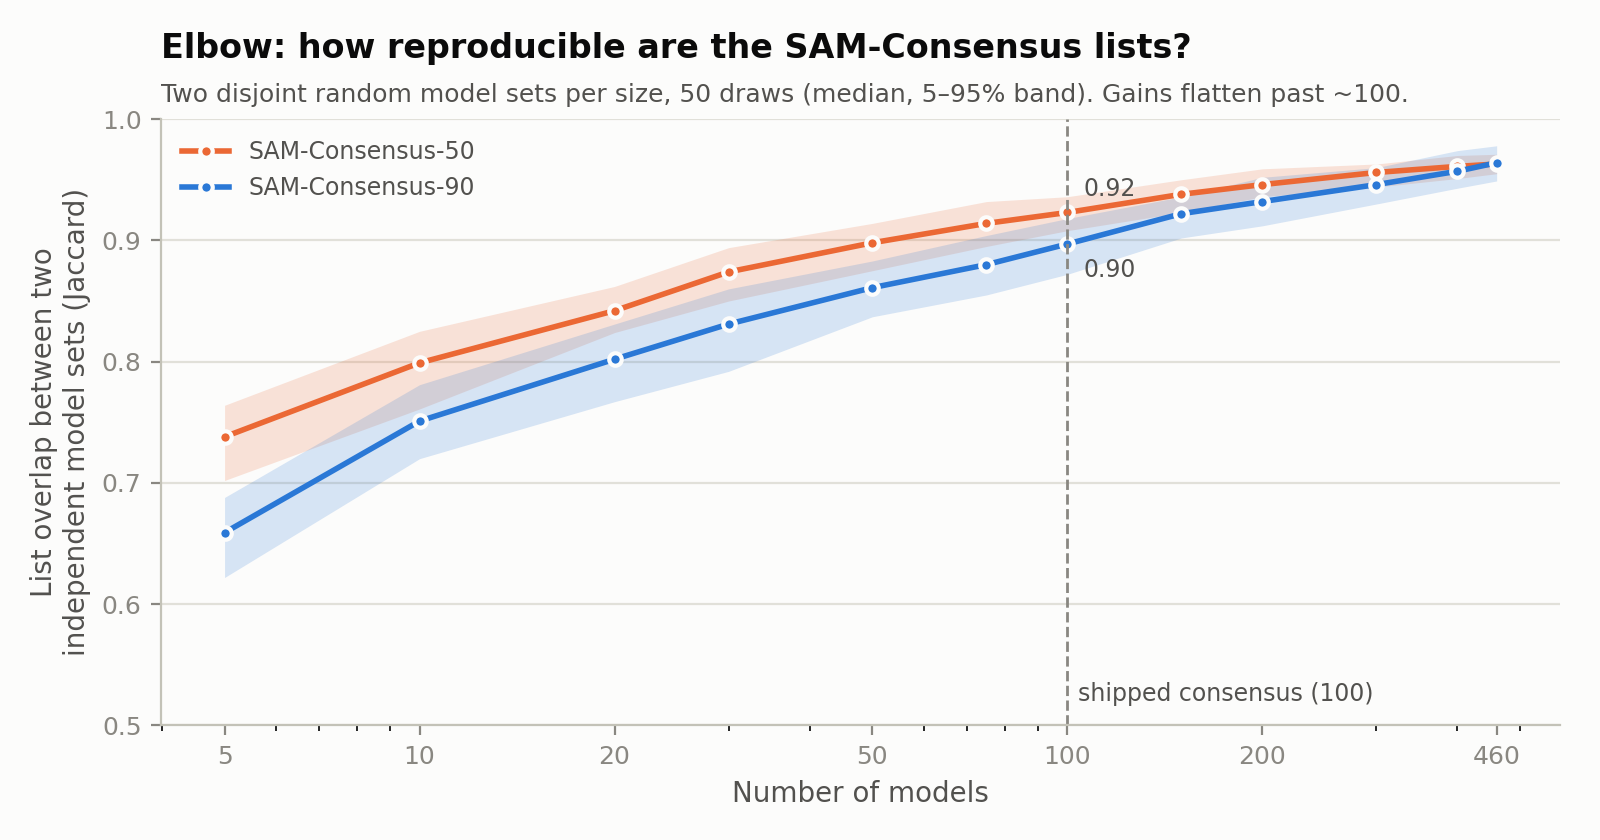
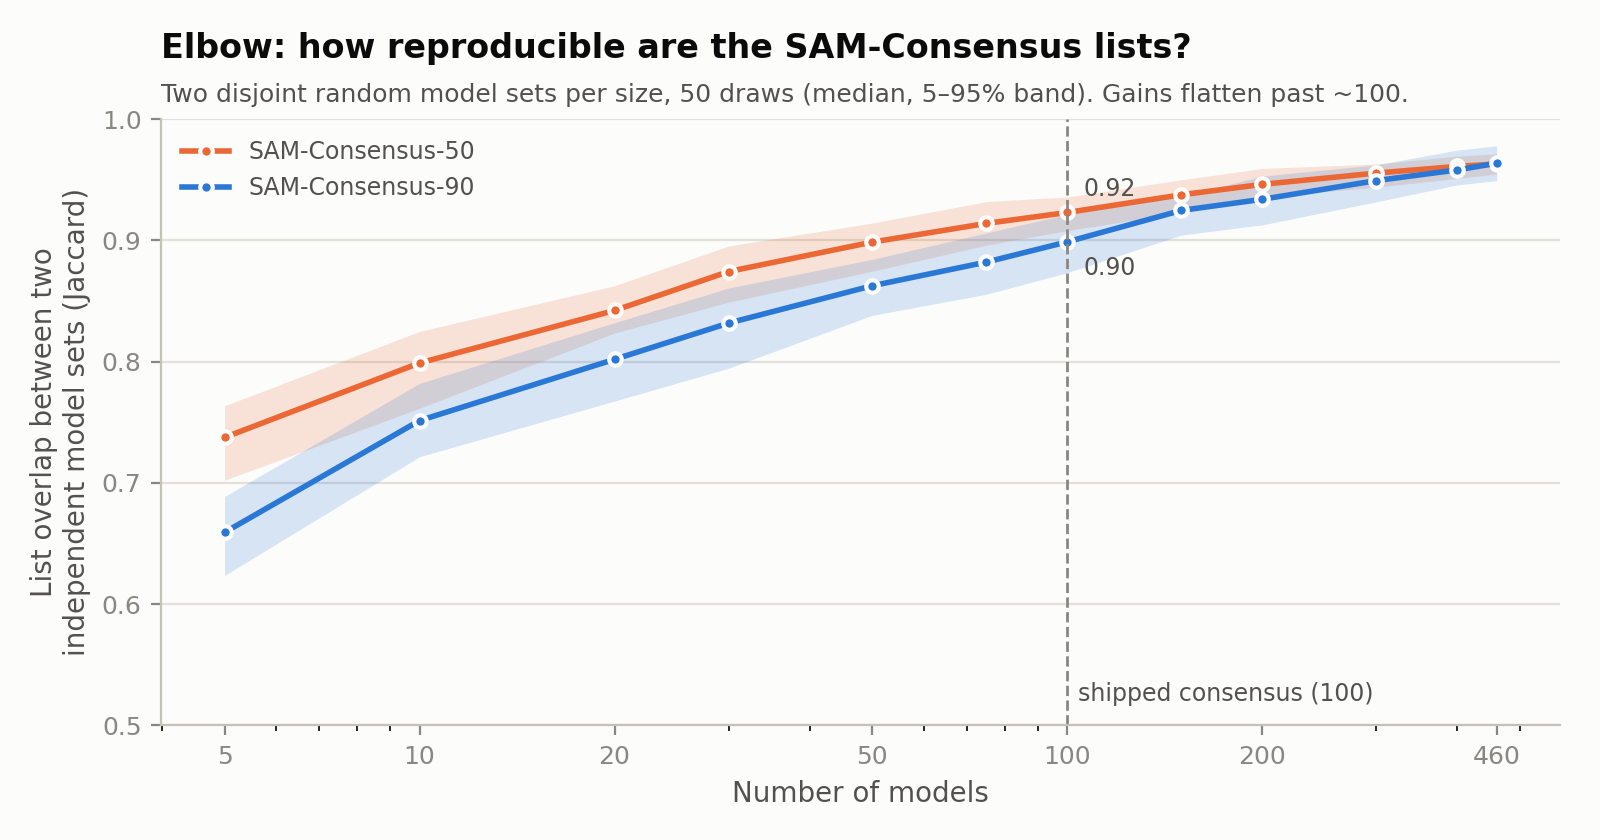
Add SAM-Consensus: agreement of 100 ShortStop models (v1.1.0; 7152 GENCODE smORFs)
Predict and demo modes now also score every smORF with 100 independently
trained ShortStop models (the standard model plus the 99 next-highest-AUC
replicates) and report how many vote SAM, i.e. P(intracellular) + P(secreted)
> 0.5.

predictions/consensus/shortstop_consensus.csv adds, per smORF:
- sam: the standard model's call (unchanged from v1.0)
- sam_consensus_percentage: share of the 100 models voting SAM
- sam_consensus_50 / _90 / _100: > 50%, >= 90% and all models vote SAM
- spread of P(SAM) across models and the majority SAM class

predictions/consensus/consensus_summary.txt reports the counts and model
agreement for the run. Standard model outputs are unchanged.

The models (~36 MB) are a release asset, downloaded on first use, checked
against a pinned sha256 and cached. --consensus_dir points at a local copy;
--no_consensus skips the step.

Also adds docs/consensus_validation.md with figures, and the scripts that
rebuild the model bundle and the validation numbers.

Changed region(s): [[0.5, 0.1857, 0.9062, 0.3714], [0.4375, 0.3714, 0.4688, 0.4024]]

diff --git a/scripts/consensus_validation/consensus_figures.py b/scripts/consensus_validation/consensus_figures.py
@@ -3,7 +3,8 @@
 1. consensus_auc_{theme}.png     - XGBoost macro AUC of the replicate training runs, consensus models highlighted
 2. consensus_elbow_{theme}.png   - SAM-Consensus list overlap between two independent model sets vs size
 3. consensus_levels_{theme}.png  - SAM-Consensus percentage per smORF, with the 50 / 90 / 100 levels
-agreement_stats.csv, elbow.csv and random_comparison.csv hold the numbers behind docs/consensus_validation.md.
+label_stats.csv, agreement_stats.csv, elbow.csv and random_comparison.csv hold the numbers behind
+docs/consensus_validation.md. Only GENCODE smORF IDs (starting with lowercase "c") are counted.
 Each model votes SAM when P(intracellular) + P(secreted) > 0.5. SAM-Consensus-50: > 50% of models,
 -90: >= 90%, -100: all models.
 """
@@ -30,7 +31,9 @@ THEMES = {
 manifest = pd.read_csv(f"{HERE}/consensus_manifest.csv")
 excluded = pd.read_csv(f"{HERE}/excluded_models.csv")
 auc = pd.read_csv(f"{AGREE}/model_auc.csv")
-probs = np.load(f"{AGREE}/probs.npy")
+orf_ids = pd.read_csv(f"{AGREE}/orf_ids.csv")["orf_id"].str.strip('"')
+gencode = orf_ids.str.match(r"^c").to_numpy()  # GENCODE smORF IDs only
+probs = np.load(f"{AGREE}/probs.npy")[:, gencode]
 runs = pd.read_csv(f"{AGREE}/models.csv")["model"]
 vote_all = probs[:, :, 1:].sum(2) > SAM_PROB  # runs x smORFs
 pool_idx = np.flatnonzero(~runs.isin(excluded["model"]).to_numpy())
@@ -68,7 +71,7 @@ def elbow(sizes, reps=50, seed=0):
             p5, med, p95 = np.percentile(res[k], [5, 50, 95])
             row.update({f"sam_consensus_{k}_p5": p5, f"sam_consensus_{k}_median": med, f"sam_consensus_{k}_p95": p95})
         rows.append(row)
-    return pd.DataFrame(rows).round(3)
+    return pd.DataFrame(rows).round(4)  # 4 dp so the docs' 2-dp values are rounded once
 
 
 def random_comparison(reps=200, seed=0):
@@ -113,7 +116,42 @@ def agreement_stats():
     return pd.DataFrame({"metric": list(rows), "value": list(rows.values())}).round(4)
 
 
+def label_stats():
+    """Every count quoted in the docs: standard SAM (argmax of model_001) vs SAM-Consensus levels."""
+    std_probs = probs[ens_idx[manifest["is_standard"].to_numpy()][0]]
+    std_cls = std_probs.argmax(1)
+    std_sam = std_cls != 0
+    v = vote_all[ens_idx]
+    k = v.sum(0)
+    n_intra = (v & (probs[ens_idx, :, 1] >= probs[ens_idx, :, 2])).sum(0)
+    intra = n_intra >= k - n_intra
+    agree = np.where(k > 0, np.maximum(n_intra, k - n_intra) / np.maximum(k, 1), np.nan)
+    lv = levels(v)
+    top = np.where(lv[100], 100, np.where(lv[90], 90, np.where(lv[50], 50, 0)))
+    model001_votes = std_probs[:, 1:].sum(1) > SAM_PROB
+    rows = {"n_smorfs": len(k), "sam_standard": std_sam.sum(), "sam_standard_intracellular": (std_cls == 1).sum(),
+            "sam_standard_secreted": (std_cls == 2).sum()}
+    for lvl in (50, 90, 100):
+        sel = lv[lvl]
+        rows.update({f"sam_consensus_{lvl}": sel.sum(), f"sam_consensus_{lvl}_intracellular": (sel & intra).sum(),
+                     f"sam_consensus_{lvl}_secreted": (sel & ~intra).sum(),
+                     f"sam_consensus_{lvl}_also_standard_sam": (sel & std_sam).sum(),
+                     f"sam_consensus_{lvl}_class_agreement_lt_0.9": (sel & (agree < 0.9)).sum()})
+    rows.update({"standard_sam_top_level_100": (std_sam & (top == 100)).sum(),
+                 "standard_sam_top_level_90": (std_sam & (top == 90)).sum(),
+                 "standard_sam_top_level_50": (std_sam & (top == 50)).sum(),
+                 "standard_sam_not_consensus_50": (std_sam & ~lv[50]).sum(),
+                 "consensus_50_not_standard_sam": (lv[50] & ~std_sam).sum(),
+                 "class_ties": ((k > 0) & (agree == 0.5)).sum(), "class_ties_in_consensus_50": (lv[50] & (agree == 0.5)).sum(),
+                 "model_001_sam_votes": model001_votes.sum(),
+                 "model_001_votes_sam_but_standard_prism": (model001_votes & ~std_sam).sum(),
+                 "standard_sam_but_model_001_no_vote": (std_sam & ~model001_votes).sum(),
+                 "smorfs_with_no_sam_votes": (k == 0).sum(), "smorfs_with_1_to_50pct_votes": ((k > 0) & ~lv[50]).sum()})
+    return pd.DataFrame({"metric": list(rows), "value": list(rows.values())})
+
+
 SIZES = [5, 10, 20, 30, 50, 75, 100, 150, 200, 300, 400, 460]
+label_stats().to_csv(f"{HERE}/label_stats.csv", index=False)
 agreement_stats().to_csv(f"{HERE}/agreement_stats.csv", index=False)
 EL = elbow(SIZES)
 EL.to_csv(f"{HERE}/elbow.csv", index=False)
@@ -201,7 +239,7 @@ def fig_levels(t):
     ax.bar(lefts, counts, width=5, align="edge", color=colors, edgecolor=t["surface"], linewidth=2)
     lv = {k: v.sum() for k, v in levels(vote_all[ens_idx]).items()}
     ymax = max(counts)
-    for x, lab in ((25, f"Not SAM-Consensus-50 (1–50%)\n{((n_votes > 0) & (n_votes <= 50)).sum()} smORFs"),
+    for x, lab in ((25, f"Not SAM-Consensus-50 (1–50%)\n{((n_votes > 0) & (n_votes <= 50)).sum():,} smORFs"),
                    (70, f"SAM-Consensus-50\n{lv[50]} (> 50%)"), (95, f"-90\n{lv[90]}"), (102.5, f"-100\n{lv[100]}")):
         ax.text(x, ymax * 1.03, lab, ha="center", va="bottom", color=t["ink2"], fontsize=8.5)
     for x in (50, 90, 100):
@@ -212,7 +250,7 @@ def fig_levels(t):
     ax.set_xticklabels(["0", "20", "40", "50", "60", "80", "90", "100"])
     ax.set_xlabel("SAM-Consensus percentage (% of the 100 models with P(SAM) > 0.5)")
     ax.set_ylabel("smORFs")
-    title(ax, t, "SAM-Consensus levels on 7,155 GENCODE smORFs",
+    title(ax, t, f"SAM-Consensus levels on {gencode.sum():,} GENCODE smORFs",
           f"Nested: every -100 smORF is also -90 and -50. {(pct == 0).sum():,} smORFs with no SAM votes not shown.")
     fig.tight_layout()
     return fig
@@ -226,6 +264,7 @@ for name, fn in (("consensus_auc", fig_auc), ("consensus_elbow", fig_elbow), ("c
         fig = fn(t)
         fig.savefig(f"{OUT}/{name}_{theme}.png", dpi=200, facecolor=t["surface"])
         plt.close(fig)
+print(pd.read_csv(f"{HERE}/label_stats.csv").to_string(index=False))
 print(pd.read_csv(f"{HERE}/agreement_stats.csv").to_string(index=False))
 print(EL.to_string(index=False))
 print(pd.read_csv(f"{HERE}/random_comparison.csv").to_string(index=False))

diff --git a/scripts/consensus_validation/select_models.py b/scripts/consensus_validation/select_models.py
@@ -2,7 +2,8 @@
 
 model_001 is the published standard model (testing251). testing144 is excluded by the author.
 model_002..model_100 are the next 99 runs by XGBoost macro AUC.
-Per-model stats are on gencode_smorfs with a SAM vote = P(intracellular)+P(secreted) > 0.5.
+Per-model stats are on GENCODE smORF IDs (starting with lowercase "c") with a SAM vote =
+P(intracellular)+P(secreted) > 0.5.
 """
 import os
 import numpy as np
@@ -20,7 +21,8 @@ pool = auc[~auc["model"].isin(EXCLUDED)]
 others = pool[pool["model"] != STANDARD].head(N_MODELS - 1)
 chosen = pd.concat([pool[pool["model"] == STANDARD], others], ignore_index=True)
 
-probs = np.load(f"{AGREE}/probs.npy")
+gencode = pd.read_csv(f"{AGREE}/orf_ids.csv")["orf_id"].str.strip('"').str.match(r"^c").to_numpy()
+probs = np.load(f"{AGREE}/probs.npy")[:, gencode]
 runs = pd.read_csv(f"{AGREE}/models.csv")["model"]
 idx = [runs[runs == m].index[0] for m in chosen["model"]]
 sam = probs[idx, :, 1:].sum(2) > SAM_PROB

diff --git a/src/shortstop/consensus.py b/src/shortstop/consensus.py
@@ -16,7 +16,7 @@ import urllib.request
 CONSENSUS_NAME = "shortstop_consensus_v1.1"
 CONSENSUS_URL = ("https://github.com/brendan-miller-salk/ShortStop/releases/download/"
                 f"v1.1.0/{CONSENSUS_NAME}.tar.gz")
[2 lines of base64/hex data omitted]
 MANIFEST = "consensus_manifest.csv"
 STALE_SECONDS = 6 * 3600  # temporary files older than this are from killed runs
 

diff --git a/docs/consensus_validation.md b/docs/consensus_validation.md
@@ -1,7 +1,8 @@
 # ShortStop SAM-Consensus validation
 
 How the 100 SAM-Consensus models shipped with ShortStop v1.1 were chosen, and how far they agree.
-All numbers are for the 7,155 GENCODE smORFs in `demo_data/gencode_smorfs.gtf`.
+All numbers are for the 7,152 GENCODE smORFs that ShortStop scored from
+`src/shortstop/demo_data/gencode_smorfs.gtf`.
 
 ## The 100 models
 
@@ -31,24 +32,24 @@ percentage is the share of the 100 models voting SAM.
 
 | Label | Rule | smORFs | Intracellular / secreted | Also SAM (standard) |
 |---|---|---|---|---|
-| SAM | standard model classification | 606 | 571 / 35 | – |
-| SAM-Consensus-50 | > 50% of models | 539 | 510 / 29 | 453 |
-| SAM-Consensus-90 | ≥ 90% of models | 291 | 270 / 21 | 280 |
+| SAM | standard model classification | 604 | 570 / 34 | – |
+| SAM-Consensus-50 | > 50% of models | 537 | 509 / 28 | 451 |
+| SAM-Consensus-90 | ≥ 90% of models | 290 | 270 / 20 | 279 |
 | SAM-Consensus-100 | all 100 models | 137 | 125 / 12 | 137 |
 
 For the SAM-Consensus labels, intracellular vs secreted is the majority among the SAM-voting
 models; ties go to intracellular (`class_agreement` = 0.5).
 
-**Why model_001 votes SAM for 632 smORFs but the standard model calls 606 SAMs.** The two use
+**Why model_001 votes SAM for 630 smORFs but the standard model calls 604 SAMs.** The two use
 different rules. The standard classification keeps v1.0's rule: the single most probable class.
 A consensus vote counts P(intracellular) + P(secreted) > 0.5. For 26 smORFs, P(SAM) is above 0.5,
 but PRISM is still the single most probable class (for example PRISM 0.45, intracellular 0.30,
 secreted 0.25). The reverse never happens.
 
-**How the standard SAMs spread across the levels.** Of the 606 standard-model SAMs:
+**How the standard SAMs spread across the levels.** Of the 604 standard-model SAMs:
 - 137 are SAM-Consensus-100;
-- 143 more are -90;
-- 173 more are -50;
+- 142 more are -90;
+- 172 more are -50;
 - 153 are not SAM-Consensus-50. These depend on the particular training sample.
 
 **The reverse case.** 86 smORFs are SAM-Consensus-50 although the standard model classifies them as
@@ -67,19 +68,19 @@ localization label of those as uncertain.
 
 | Each model votes SAM when P(SAM) > 0.5 | |
 |---|---|
-| SAM votes per model, median (range) | 590 (464–750) |
-| Mean pairwise Jaccard of SAM lists (5–95%) | 0.582 (0.528–0.628) |
+| SAM votes per model, median (range) | 589 (462–748) |
+| Mean pairwise Jaccard of SAM lists (5–95%) | 0.581 (0.527–0.628) |
 | Fleiss' κ (SAM vs not) | 0.711 |
 | Mean pairwise Spearman of P(SAM) | 0.868 |
 
 **How to read these.**
 - **Jaccard** is the size of the overlap between two models' SAM lists divided by the size of their
-  combination. At 0.582, about 74% of one model's SAM votes are also made by another model. The
+  combination. At 0.581, about 74% of one model's SAM votes are also made by another model. The
   rest depend on the particular training sample.
 - **Fleiss' κ** is agreement over all smORFs, corrected for chance. 0.61–0.80 is conventionally
   "substantial".
 - **The two are not independent evidence.** SAMs are rare (~8% of smORFs here), so the two-category
-  κ is close to the Dice overlap 2J / (1 + J) = 0.736.
+  κ is close to the Dice overlap 2J / (1 + J) = 0.735.
 - **The models rank smORFs consistently** (Spearman 0.87). They disagree mainly about smORFs near
   P(SAM) = 0.5. The SAM-Consensus-90 and -100 labels remove that sensitivity by requiring almost
   every model to agree.
@@ -90,9 +91,9 @@ The shipped consensus models compared with 200 random sets of 100 replicate runs
 
 | | Shipped consensus models | Random 100, median [95% range] |
 |---|---|---|
-| Mean pairwise Jaccard | 0.582 | 0.567 [0.560–0.573] |
-| SAM-Consensus-50 | 539 | 531 [512–548] |
-| SAM-Consensus-90 | 291 | 274 [263–285] |
+| Mean pairwise Jaccard | 0.581 | 0.567 [0.560–0.573] |
+| SAM-Consensus-50 | 537 | 529 [510–546] |
+| SAM-Consensus-90 | 290 | 274 [262–284] |
 | SAM-Consensus-100 | 137 | 129 [120–138] |
 
 Higher-AUC models agree slightly more, which yields somewhat longer SAM-Consensus-90 lists. But
@@ -107,12 +108,12 @@ draws.
 | Models per set | SAM-Consensus-50 | SAM-Consensus-90 |
 |---|---|---|
 | 5 | 0.74 (0.70–0.76) | 0.66 (0.62–0.69) |
-| 10 | 0.80 (0.76–0.83) | 0.75 (0.72–0.78) |
-| 30 | 0.87 (0.85–0.89) | 0.83 (0.79–0.86) |
-| 50 | 0.90 (0.88–0.91) | 0.86 (0.84–0.88) |
+| 10 | 0.80 (0.76–0.82) | 0.75 (0.72–0.78) |
+| 30 | 0.87 (0.85–0.90) | 0.83 (0.79–0.86) |
+| 50 | 0.90 (0.87–0.91) | 0.86 (0.84–0.88) |
 | **100** | **0.92 (0.91–0.94)** | **0.90 (0.87–0.92)** |
 | 200 | 0.95 (0.94–0.96) | 0.93 (0.91–0.95) |
-| 460 | 0.96 (0.96–0.97) | 0.96 (0.95–0.98) |
+| 460 | 0.96 (0.95–0.97) | 0.96 (0.95–0.98) |
 
 Gains flatten past about 100 models. Doubling to 200 improves the overlap by 0.02–0.04, at twice
 the download size and run time.
@@ -151,4 +152,4 @@ the download size and run time.
 
 The scripts are in [`scripts/consensus_validation/`](../scripts/consensus_validation/). They need the
 replicate training-run folders, which are not distributed. Given those, the scripts rebuild the
-bundle byte-for-byte (sha256 `a58f3237…e607ef`).
+bundle byte-for-byte (sha256 `2c027c8d…e76c7a0`).

diff --git a/README.md b/README.md
@@ -126,14 +126,14 @@ Training ShortStop involves random sampling: which in silico PRISMs are generate
 
 Each consensus model votes SAM when P(SAM) = P(intracellular) + P(secreted) > 0.5. Every smORF gets a **SAM-Consensus percentage** (the share of the 100 models voting SAM) and four yes/no labels:
 
-| Label | Rule | GENCODE smORFs (n = 7,155) |
+| Label | Rule | GENCODE smORFs (n = 7,152) |
 |---|---|---|
-| **SAM** | standard model classification (unchanged from v1.0) | 606 |
-| **SAM-Consensus-50** | > 50% of the 100 models vote SAM | 539 |
-| **SAM-Consensus-90** | ≥ 90% of models | 291 |
+| **SAM** | standard model classification (unchanged from v1.0) | 604 |
+| **SAM-Consensus-50** | > 50% of the 100 models vote SAM | 537 |
+| **SAM-Consensus-90** | ≥ 90% of models | 290 |
 | **SAM-Consensus-100** | all 100 models | 137 |
 
-The SAM-Consensus labels are nested: every SAM-Consensus-100 smORF is also -90 and -50. Use SAM-Consensus-90 or -100 when you need the most robust set, such as when choosing candidates for experiments. 453 of the 606 standard SAMs are also SAM-Consensus-50; the other 153 depend on the particular training sample.
+The SAM-Consensus labels are nested: every SAM-Consensus-100 smORF is also -90 and -50. Use SAM-Consensus-90 or -100 when you need the most robust set, such as when choosing candidates for experiments. 451 of the 604 standard SAMs are also SAM-Consensus-50; the other 153 depend on the particular training sample.
 
 <picture>
   <source media="(prefers-color-scheme: dark)" srcset="docs/figures/consensus_levels_dark.png">
@@ -161,7 +161,7 @@ shortstop predict ... --consensus_dir /path    # use or download the bundle here
   <img alt="SAM-Consensus list reproducibility between two independent model sets versus the number of models, flattening past about 100 models" src="docs/figures/consensus_elbow_light.png" width="700">
 </picture>
 
-**Agreement between individual models.** On GENCODE smORFs, each model votes SAM for a median of 590 smORFs (range 464–750). Any two models' SAM lists overlap by Jaccard 0.582 on average, and Fleiss' κ is 0.711 ("substantial"). The models learn a consistent signal, but a single model's SAM list is only partly reproducible, which is why the SAM-Consensus labels are reported.
+**Agreement between individual models.** On GENCODE smORFs, each model votes SAM for a median of 589 smORFs (range 462–748). Any two models' SAM lists overlap by Jaccard 0.581 on average, and Fleiss' κ is 0.711 ("substantial"). The models learn a consistent signal, but a single model's SAM list is only partly reproducible, which is why the SAM-Consensus labels are reported.
 
 Agreement measures robustness to the training sample, not correctness: all 100 models share the same positive training set and features, so they can be confidently wrong together. Full results are in [docs/consensus_validation.md](docs/consensus_validation.md).
 

diff --git a/scripts/consensus_validation/README.md b/scripts/consensus_validation/README.md
@@ -11,9 +11,9 @@ export SHORTSTOP_VALIDATION_WORK=/path/to/work                       # outputs
 
 python predict_all_models.py           # score every run's XGBoost model -> probs.npy, model_auc.csv
 python select_models.py                # pick the 100 -> consensus_v1.1/consensus_manifest.csv
-python consensus_figures.py            # figures, agreement_stats.csv, elbow.csv, random_comparison.csv
+python consensus_figures.py            # figures, label_stats.csv, agreement_stats.csv, elbow.csv, random_comparison.csv
 python build_bundle.py                 # shortstop_consensus_v1.1.tar.gz + .sha256
 ```
 
 `predict_all_models.py` uses about 700 MB of memory and takes about 15 minutes for ~1,000 models on
-7,155 smORFs. The other scripts take a few minutes in total.
+~7,000 smORFs. The other scripts take a few minutes in total.
